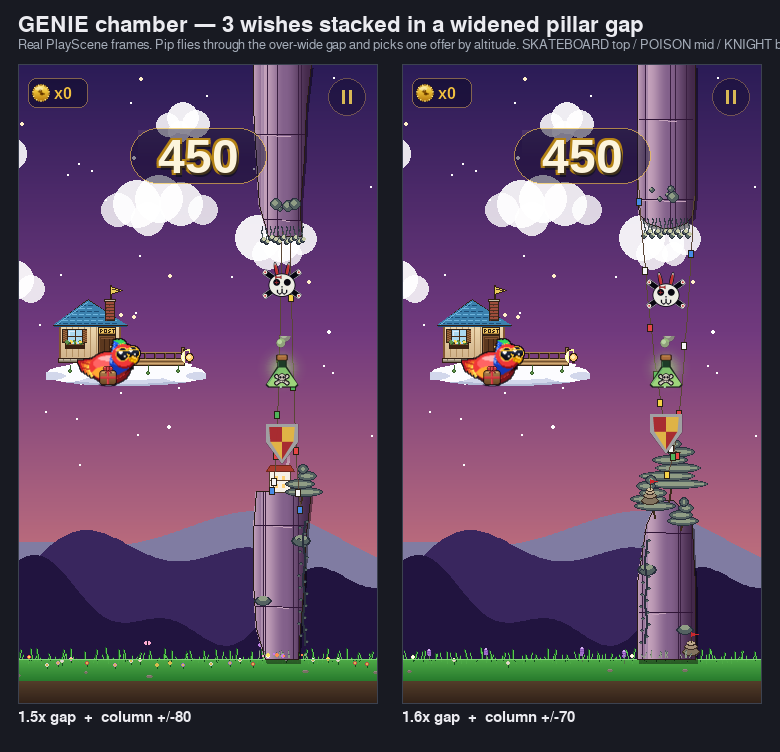
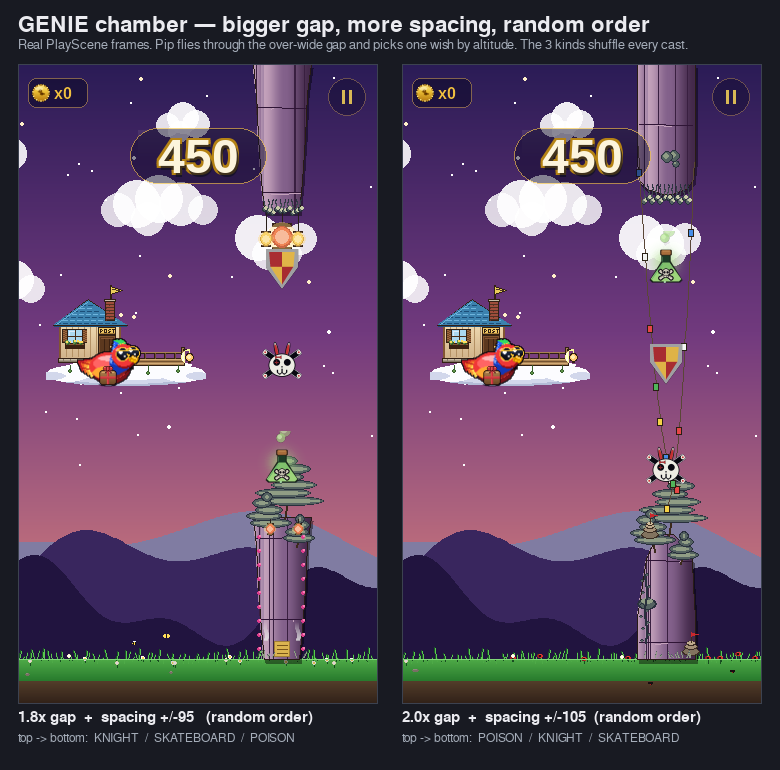
Genie chamber mock v2: bigger gap, wider spacing, random order
Larger over-wide gaps (1.8x / 2.0x) with more vertical spacing between
the 3 stacked offers (+/-95, +/-105), and the kinds shuffled per cast.
Two cells show different random orders to convey the randomization.
Mock only; spawn logic not yet wired.

diff --git a/tools/render_genie_chamber_mock.py b/tools/render_genie_chamber_mock.py
@@ -1,18 +1,15 @@
-"""Genie chamber mock — the widened-gap pillar with the 3 offers
-stacked vertically inside it, shown as real PlayScene frames.
+"""Genie chamber mock — 3 wishes stacked in an OVER-wide pillar gap.
 
-Two fit options side by side:
-  LEFT : 1.5x gap + column at +/-80  (tight)
-  RIGHT: 1.6x gap + column at +/-70  (comfortable)
-
-Pip is parked mid-approach so you can read the chamber as it would
-appear scrolling toward him.
+Larger gap + more spacing between the offers, and the 3 kinds appear
+in a RANDOM order each cast. Two size options side by side; each cell
+uses a different shuffle so the random-order behaviour is visible.
 
 Output: docs/screenshots/icon_sizes/genie_chamber_mock.png
 """
 from __future__ import annotations
 
 import os
+import random
 import sys
 
 os.environ.setdefault("SDL_VIDEODRIVER", "dummy")
@@ -31,14 +28,14 @@ from game.scenes import App, STATE_PLAY
 from game.entities import Pipe, PowerUp
 
 
-# (label, gap_boost, column_half_span)
+# (label, gap_boost, column_half_span, shuffle_seed)
 VARIANTS = (
-    ("1.5x gap  +  column +/-80", 1.5, 80),
-    ("1.6x gap  +  column +/-70", 1.6, 70),
+    ("1.8x gap  +  spacing +/-95   (random order)", 1.8, 95, 7),
+    ("2.0x gap  +  spacing +/-105  (random order)", 2.0, 105, 3),
 )
 
-CHAMBER_X = 235     # pillar x — visible, ahead of Pip (x=90), about to be entered
-GAP_CENTER = 300    # vertical centre of the chamber gap
+CHAMBER_X = 235
+GAP_CENTER = 300
 
 CARD_BG = (24, 26, 34)
 LABEL   = (235, 235, 240)
@@ -49,12 +46,12 @@ def _font(size, bold=False):
     return pygame.font.SysFont("Arial", size, bold=bold)
 
 
-def _grab_frame(gap_boost, half_span) -> pygame.Surface:
+def _grab_frame(gap_boost, half_span, seed) -> pygame.Surface:
     app = App()
     app.state = STATE_PLAY
     app.world.ready_t = 0
     app.world.bird.x = 90
-    app.world.bird.y = GAP_CENTER          # Pip lined up with the gap centre
+    app.world.bird.y = GAP_CENTER
     app.world.bird.vy = 0
     app.world.pipes.clear()
     app.world.coins.clear()
@@ -64,17 +61,18 @@ def _grab_frame(gap_boost, half_span) -> pygame.Surface:
     chamber = Pipe(CHAMBER_X, GAP_CENTER, gap_h)
     app.world.pipes.append(chamber)
 
-    # 3 offers stacked in the gap, centred on the gap centre.
-    for kind, dy in (("skateboard", -half_span),
-                     ("poison", 0),
-                     ("knight", half_span)):
-        p = PowerUp(CHAMBER_X + 29, GAP_CENTER + dy, kind=kind)  # centre of pillar width
+    # Random order across the three vertical slots.
+    kinds = ["skateboard", "poison", "knight"]
+    random.Random(seed).shuffle(kinds)
+    slots = (-half_span, 0, half_span)
+    for kind, dy in zip(kinds, slots):
+        p = PowerUp(CHAMBER_X + 29, GAP_CENTER + dy, kind=kind)
         p.is_genie_offer = True
         p.pulse = 0.0
         app.world.powerups.append(p)
 
     app._render()
-    return app.screen.copy()
+    return app.screen.copy(), kinds
 
 
 def main():
@@ -86,37 +84,42 @@ def main():
     PAD = 18
     COL_GAP = 24
     HEADER = 64
-    CAP_H = 30
+    CAP_H = 48
 
-    frames = [(lbl, _grab_frame(boost, hs))
-              for (lbl, boost, hs) in VARIANTS]
+    rendered = []
+    for lbl, boost, hs, seed in VARIANTS:
+        frame, order = _grab_frame(boost, hs, seed)
+        rendered.append((lbl, frame, order))
 
-    sheet_w = PAD * 2 + len(frames) * (W + COL_GAP) - COL_GAP
+    sheet_w = PAD * 2 + len(rendered) * (W + COL_GAP) - COL_GAP
     sheet_h = HEADER + H + CAP_H + PAD
     sheet = pygame.Surface((sheet_w, sheet_h))
     sheet.fill(CARD_BG)
 
     title = _font(22, bold=True).render(
-        "GENIE chamber — 3 wishes stacked in a widened pillar gap",
+        "GENIE chamber — bigger gap, more spacing, random order",
         True, LABEL)
     sheet.blit(title, (PAD, 14))
     sub = _font(13).render(
         "Real PlayScene frames. Pip flies through the over-wide gap and "
-        "picks one offer by altitude. SKATEBOARD top / POISON mid / KNIGHT bottom.",
+        "picks one wish by altitude. The 3 kinds shuffle every cast.",
         True, SUB)
     sheet.blit(sub, (PAD, 38))
 
-    for i, (lbl, frame) in enumerate(frames):
+    for i, (lbl, frame, order) in enumerate(rendered):
         x = PAD + i * (W + COL_GAP)
         y = HEADER
         sheet.blit(frame, (x, y))
         pygame.draw.rect(sheet, (60, 66, 80), (x, y, W, H), 1)
         cap = _font(15, bold=True).render(lbl, True, LABEL)
         sheet.blit(cap, (x, y + H + 6))
+        order_txt = "top -> bottom:  " + "  /  ".join(
+            k.upper() for k in order)
+        os_ = _font(12).render(order_txt, True, SUB)
+        sheet.blit(os_, (x, y + H + 28))
 
     pygame.image.save(sheet, out_path)
-    print(f"saved {out_path}  ({sheet_w}x{sheet_h})  "
-          f"GAP_START={GAP_START}")
+    print(f"saved {out_path}  ({sheet_w}x{sheet_h})  GAP_START={GAP_START}")
 
 
 if __name__ == "__main__":
